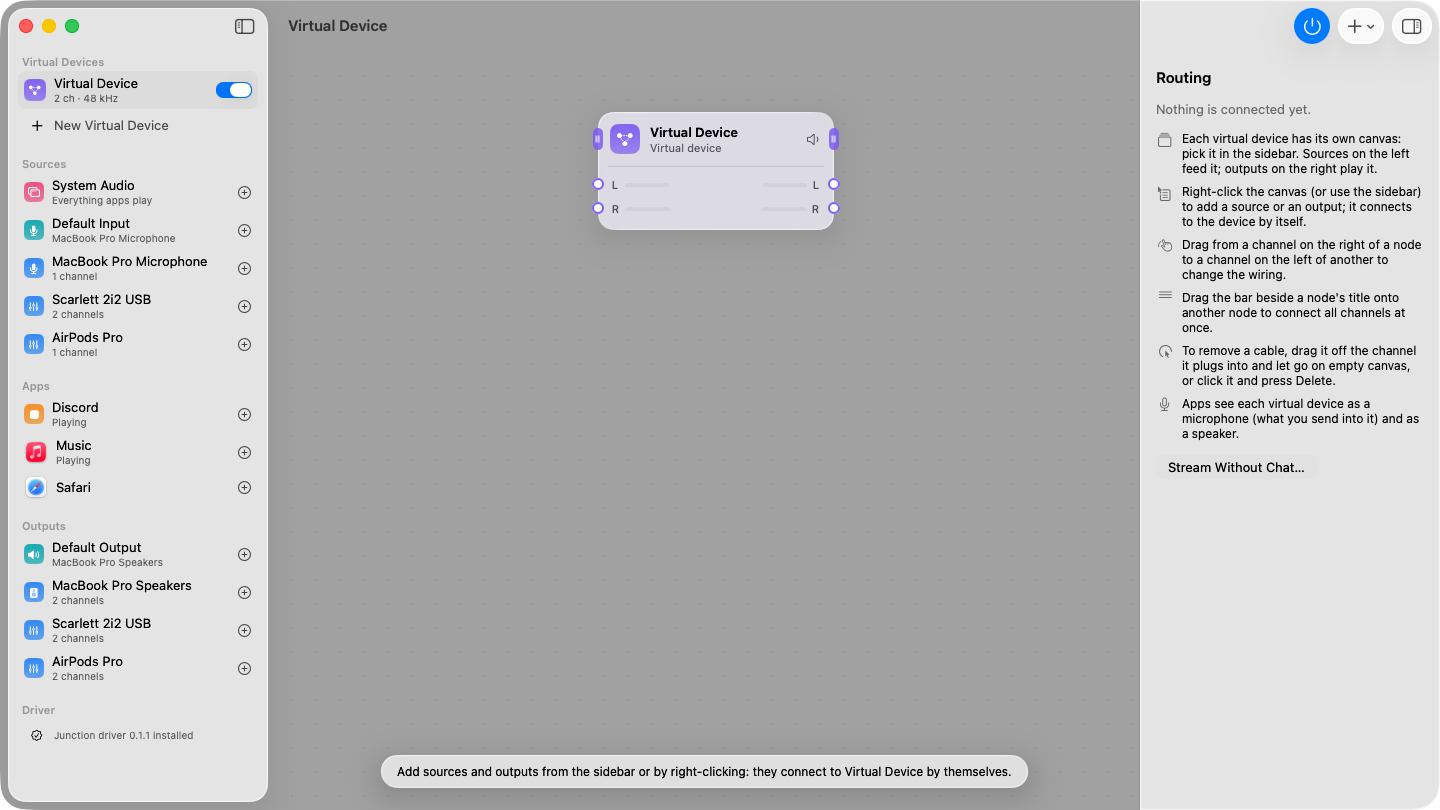
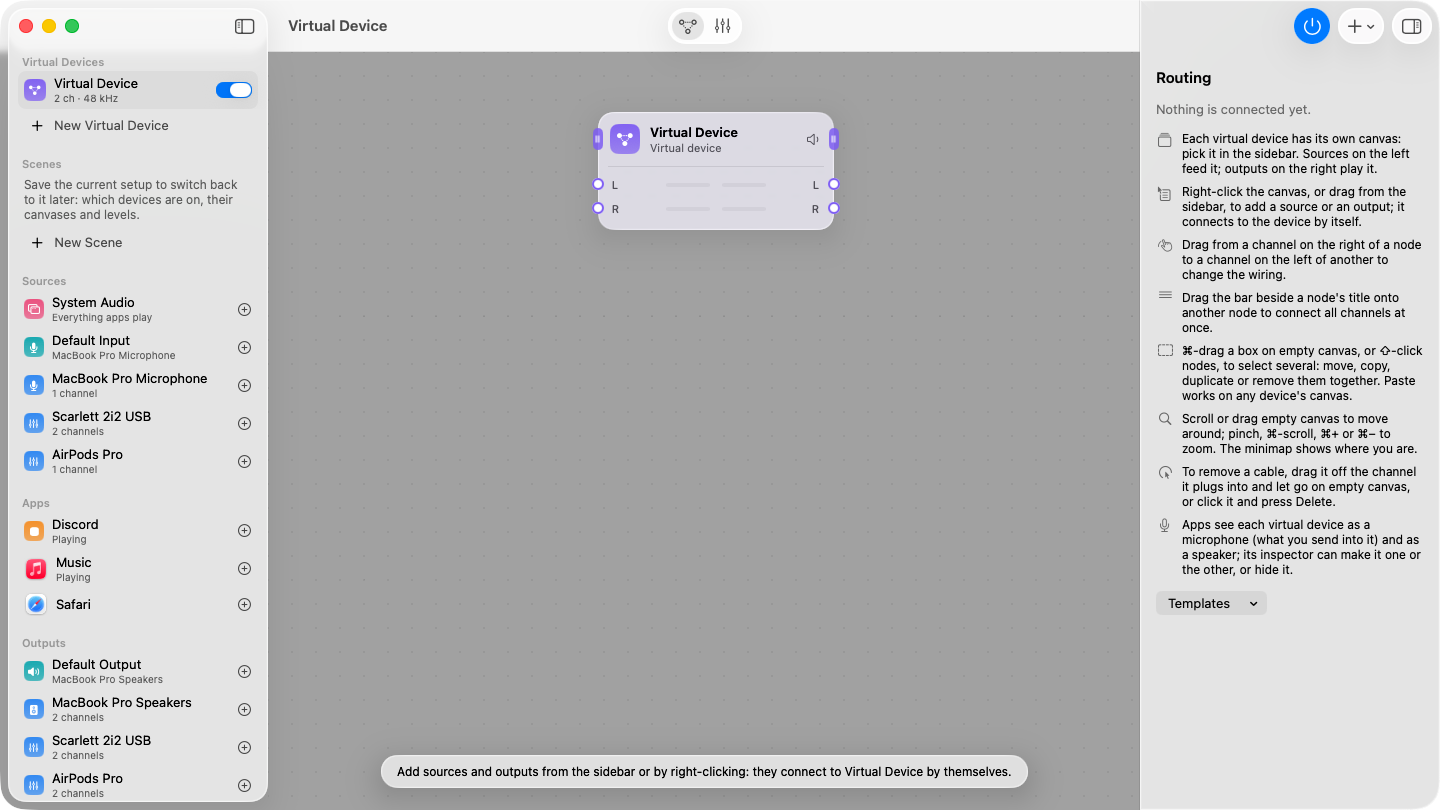
Refresh screenshots
Capture the screens the finishing run added (selection, zoom, effects, plugins,
mixer, templates, scenes, MIDI) and refresh the older ones, and show them in
the README and guide again. Note snapshot mode's needs in the README.

diff --git a/docs/GUIDE.md b/docs/GUIDE.md
@@ -206,12 +206,10 @@ bottom of the canvas.
 - **Undo and redo** (⌘Z, ⇧⌘Z) take back any change to canvases and virtual devices: adding, moving, wiring, levels,
   device settings, even deleting a device. The Edit menu names the step. Turning routing on or off isn't undone.
 
-<!-- Screenshot not captured yet: run snapshot mode and copy multi-select-light.png and multi-select-dark.png into docs/screenshots, then remove this comment.
 <picture>
   <source media="(prefers-color-scheme: light)" srcset="screenshots/multi-select-light.png">
   <img src="screenshots/multi-select-dark.png" alt="Two sources selected together, and the inspector listing them">
 </picture>
--->
 
 ### Zoom and move around
 
@@ -224,12 +222,10 @@ bottom of the canvas.
   drag in it to move there; its buttons zoom out, back to actual size (the percentage), in, and to fit. **View ›
   Hide Minimap** puts it away.
 
-<!-- Screenshot not captured yet: run snapshot mode and copy zoomed-light.png and zoomed-dark.png into docs/screenshots, then remove this comment.
 <picture>
   <source media="(prefers-color-scheme: light)" srcset="screenshots/zoomed-light.png">
   <img src="screenshots/zoomed-dark.png" alt="The Stream Mix canvas zoomed to 150 %, with the minimap framing the part in view">
 </picture>
--->
 
 ### Keyboard and VoiceOver
 
@@ -270,12 +266,10 @@ What the canvas shows:
 
 Every item has an **Effects** box in its inspector. Click **Add Effect** and pick one:
 
-<!-- Screenshot not captured yet: run snapshot mode and copy effects-light.png and effects-dark.png into docs/screenshots, then remove this comment.
 <picture>
   <source media="(prefers-color-scheme: light)" srcset="screenshots/effects-light.png">
   <img src="screenshots/effects-dark.png" alt="A microphone with a high-pass filter and a noise gate in the inspector">
 </picture>
--->
 
 - **Built in**: **Gain** (a level), **Pan** (moves a stereo source left or right), **Mono** (both sides get the same
   sound) and **Noise Gate** (silences everything below its threshold, such as a quiet hum or keyboard noise between
@@ -306,12 +300,10 @@ Any effect Audio Unit installed on your Mac (from another maker, or one of Apple
 Choose **Add Effect › Audio Unit…**: the list shows every installed effect by maker. Type in the search field to
 narrow it down by name or maker, then pick one and click **Add** (or double-click it).
 
-<!-- Screenshot not captured yet: run snapshot mode and copy plugin-picker-light.png and plugin-picker-dark.png into docs/screenshots, then remove this comment.
 <picture>
   <source media="(prefers-color-scheme: light)" srcset="screenshots/plugin-picker-light.png">
   <img src="screenshots/plugin-picker-dark.png" alt="The Add an Audio Unit window listing installed effects by maker, with a search field" width="72%">
 </picture>
--->
 
 - **Open Window** shows the plugin's own controls (or a slider for each setting when it has no window of its own).
   The window belongs to whatever routes: Junction itself, or **Junction Helper** when routing runs in the background,
@@ -325,12 +317,10 @@ narrow it down by name or maker, then pick one and click **Add** (or double-clic
 - If a plugin is **missing** (removed, or the setup came from another Mac), its box says so, the sound passes through
   it, and its settings stay in the setup, so it works as before once it is installed again.
 
-<!-- Screenshot not captured yet: run snapshot mode and copy missing-plugin-light.png and missing-plugin-dark.png into docs/screenshots, then remove this comment.
 <picture>
   <source media="(prefers-color-scheme: light)" srcset="screenshots/missing-plugin-light.png">
   <img src="screenshots/missing-plugin-dark.png" alt="A microphone whose Vocal Rider plugin isn't installed: the inspector says the sound passes through and its settings are kept">
 </picture>
--->
 
 ### Delay and buffer size
 
@@ -355,12 +345,10 @@ existed: the node then shows a yellow triangle, and you should set both to the s
 Click **Mixer** in the toolbar (or choose **View › Show Mixer**, ⌘2) to see the device's canvas as a mixing desk.
 **Canvas** (⌘1) goes back. Each source has a strip on the left, then the virtual device, then each output:
 
-<!-- Screenshot not captured yet: run snapshot mode and copy mixer-light.png and mixer-dark.png into docs/screenshots, then remove this comment.
 <picture>
   <source media="(prefers-color-scheme: light)" srcset="screenshots/mixer-light.png">
   <img src="screenshots/mixer-dark.png" alt="The Stream Mix mixer: strips for System Audio, the microphone, Music through DJ Deck, the device and the headphones, with the microphone soloed on the monitor">
 </picture>
--->
 
 - The **fader** is the item's level, and **M** its mute: the same ones as in the inspector. Double-click or
   Option-click a fader for 0 dB.
@@ -425,12 +413,10 @@ Next to **Stream Without Chat…** (File menu, the **+** menu, and the **Templat
 inspector) are three more templates. Each makes a virtual microphone, a device apps see as an input only, and wires it
 on its canvas. Choosing the same name again reuses that device (and turns it on).
 
-<!-- Screenshot not captured yet: run snapshot mode and copy podcast-template-light.png and podcast-template-dark.png into docs/screenshots, then remove this comment.
 <picture>
   <source media="(prefers-color-scheme: light)" srcset="screenshots/podcast-template-light.png">
   <img src="screenshots/podcast-template-dark.png" alt="The Podcast window: two microphones and a call app" width="72%">
 </picture>
--->
 
 - **Podcast…**: pick two microphones (any input of any device, or the default input) and the call app. Each gets a
   channel pair of its own on the **Podcast** device: microphone 1 on channels 1–2, microphone 2 on 3–4, the call on
@@ -440,22 +426,18 @@ on its canvas. Choosing the same name again reuses that device (and turns it on)
   device carries what the music app plays; choose it as the microphone in the call app, and turn off the call app's
   noise suppression and echo cancellation so music comes through. You keep hearing the music app as usual.
 
-<!-- Screenshot not captured yet: run snapshot mode and copy daw-into-call-template-light.png and daw-into-call-template-dark.png into docs/screenshots, then remove this comment.
 <picture>
   <source media="(prefers-color-scheme: light)" srcset="screenshots/daw-into-call-template-light.png">
   <img src="screenshots/daw-into-call-template-dark.png" alt="The DAW into a Call window" width="72%">
 </picture>
--->
 
 - **Call into the DAW…**: pick the call app. The **Call to DAW** device carries the call's audio; choose it as an
   input in your music app and record channels 1–2 on a stereo track.
 
-<!-- Screenshot not captured yet: run snapshot mode and copy call-into-daw-template-light.png and call-into-daw-template-dark.png into docs/screenshots, then remove this comment.
 <picture>
   <source media="(prefers-color-scheme: light)" srcset="screenshots/call-into-daw-template-light.png">
   <img src="screenshots/call-into-daw-template-dark.png" alt="The Call into the DAW window" width="72%">
 </picture>
--->
 
 The apps on offer are the ones using audio now and the known chat or music apps installed on your Mac; **Choose
 App…** picks any other.
@@ -465,12 +447,10 @@ App…** picks any other.
 A scene remembers a whole setup so you can come back to it in one step: which virtual devices are on, their volumes
 and mutes, and every canvas with its nodes, cables, levels and mutes. Use one per show, session or room.
 
-<!-- Screenshot not captured yet: run snapshot mode and copy scene-menu-light.png and scene-menu-dark.png into docs/screenshots, then remove this comment.
 <picture>
   <source media="(prefers-color-scheme: light)" srcset="screenshots/scene-menu-light.png">
   <img src="screenshots/scene-menu-dark.png" alt="The Routing menu listing the Streaming and Recording Only scenes, Streaming checked" width="60%">
 </picture>
--->
 
 - **Save one**: **Routing › New Scene from Current Setup…**, or **New Scene** in the sidebar's **Scenes** section.
   Give it a name and click **Save**.
@@ -500,12 +480,10 @@ and program changes. Plug it in (USB, Bluetooth or a network session) and map it
 2. A banner above the canvas asks you to move a control. Turn a knob, push a fader, press a pad or send a program
    change: that control now drives it, and the keyboard button is highlighted (point at it to see which control). **Cancel** (or Esc) stops listening.
 
-<!-- Screenshot not captured yet: run snapshot mode and copy midi-learn-light.png and midi-learn-dark.png into docs/screenshots, then remove this comment.
 <picture>
   <source media="(prefers-color-scheme: light)" srcset="screenshots/midi-learn-light.png">
   <img src="screenshots/midi-learn-dark.png" alt="MIDI Learn waiting for a control for the microphone's mute, with a banner above the canvas">
 </picture>
--->
 
 How controls behave:
 
@@ -526,12 +504,10 @@ drives it. For each knob or fader you can choose how its values are read: **Knob
 three kinds of **encoder** (endless encoders send different values for up and down; if yours moves the wrong way or in
 big jumps, try another). The **−** button removes a mapping; Undo (⌘Z) brings it back.
 
-<!-- Screenshot not captured yet: run snapshot mode and copy midi-settings-light.png and midi-settings-dark.png into docs/screenshots, then remove this comment.
 <picture>
   <source media="(prefers-color-scheme: light)" srcset="screenshots/midi-settings-light.png">
   <img src="screenshots/midi-settings-dark.png" alt="Settings listing a fader on the microphone's level, a pad muting System Audio, a button bypassing the noise gate and program changes switching scenes" width="72%">
 </picture>
--->
 
 MIDI works wherever routing runs: with **Keep routing after quitting Junction** on (section 13), your controller keeps
 working after you quit Junction, and Junction finds the changes when you open it again. Deleting a node, cable, effect,

diff --git a/README.md b/README.md
@@ -119,12 +119,10 @@ Next to it, three more sheets build a virtual microphone (an input-only device) 
 - **DAW into a Call…**: what a music app plays (optionally with your microphone) as the call app's microphone.
 - **Call into the DAW…**: the call app's audio as an input the music app records.
 
-<!-- Screenshot not captured yet: run snapshot mode and copy podcast-template-light.png and podcast-template-dark.png into docs/screenshots, then remove this comment.
 <picture>
   <source media="(prefers-color-scheme: light)" srcset="docs/screenshots/podcast-template-light.png">
   <img src="docs/screenshots/podcast-template-dark.png" alt="The Podcast sheet" width="60%">
 </picture>
--->
 
 ### Scenes
 
@@ -135,12 +133,10 @@ renames or deletes it. Switching changes only the canvases that differ: sinks th
 their new levels) and the others are rebuilt with the usual cross-fade. Devices made after a scene are left as they
 are; a deleted device leaves every scene.
 
-<!-- Screenshot not captured yet: run snapshot mode and copy scene-menu-light.png and scene-menu-dark.png into docs/screenshots, then remove this comment.
 <picture>
   <source media="(prefers-color-scheme: light)" srcset="docs/screenshots/scene-menu-light.png">
   <img src="docs/screenshots/scene-menu-dark.png" alt="The Routing menu listing the Streaming and Recording Only scenes" width="60%">
 </picture>
--->
 
 ### MIDI control
 
@@ -151,12 +147,10 @@ it, so it never jumps; endless encoders (three common kinds) nudge it. **Setting
 mappings, sets how each control's values are read and removes mappings. MIDI is read wherever routing runs, so with
 routing in the background it keeps working after Junction quits.
 
-<!-- Screenshot not captured yet: run snapshot mode and copy midi-learn-light.png and midi-learn-dark.png into docs/screenshots, then remove this comment.
 <picture>
   <source media="(prefers-color-scheme: light)" srcset="docs/screenshots/midi-learn-light.png">
   <img src="docs/screenshots/midi-learn-dark.png" alt="MIDI Learn waiting for a control for the microphone's mute" width="60%">
 </picture>
--->
 
 ### Mixer and headphone monitor
 
@@ -167,12 +161,10 @@ meters and the effect chain. It edits the same levels, mutes, cables and effects
 you can hear yourself differently from the stream. **S** on a strip, or **Listen on Monitor** in a port's context
 menu on the canvas, sends just that to the monitor, without changing the device's mix.
 
-<!-- Screenshot not captured yet: run snapshot mode and copy mixer-light.png and mixer-dark.png into docs/screenshots, then remove this comment.
 <picture>
   <source media="(prefers-color-scheme: light)" srcset="docs/screenshots/mixer-light.png">
   <img src="docs/screenshots/mixer-dark.png" alt="The Stream Mix mixer: strips for System Audio, the microphone, Music through DJ Deck, the device and the headphones, with the microphone soloed on the monitor">
 </picture>
--->
 
 *Screenshots made with Junction's snapshot mode on a made-up set of devices (see Development); GitHub shows the
 light or dark set to match your theme.*
@@ -358,6 +350,10 @@ build/Junction.app/Contents/MacOS/Junction --loopback-test   # with the driver i
 build/Junction.app/Contents/MacOS/Junction --device-test     # with the driver installed: add, rename, reshape, remove
 JUNCTION_SNAPSHOT=/tmp/shots build/Junction.app/Contents/MacOS/Junction   # demo screenshots, light and dark
 ```
+
+Snapshot mode needs Screen Recording permission for the terminal that starts it, and its window must stay in front
+while it runs: an inactive window is captured with greyed-out controls. Menus follow the system's appearance in both
+versions. It doesn't run inside Nightshift's sandbox.
 
 The kernel stress test (`Tests/KernelHarness/stress.c`) runs the sample-rate converter and the renderer under
 address and undefined-behaviour sanitizers with random buffer sizes, stalls on either side and every pair of common
